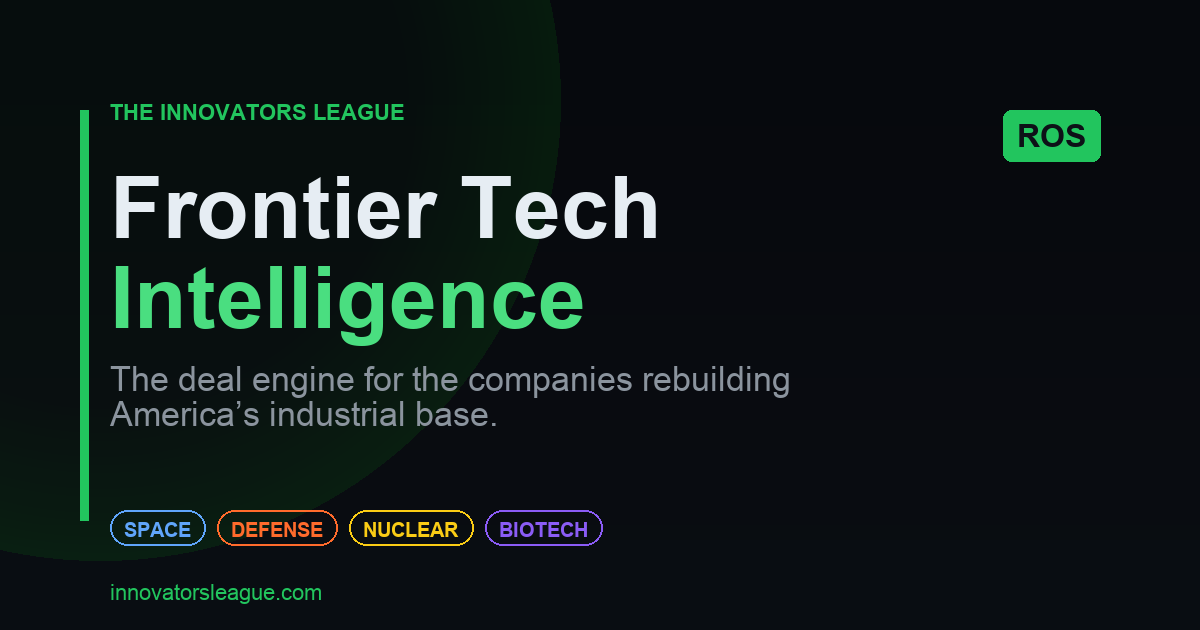
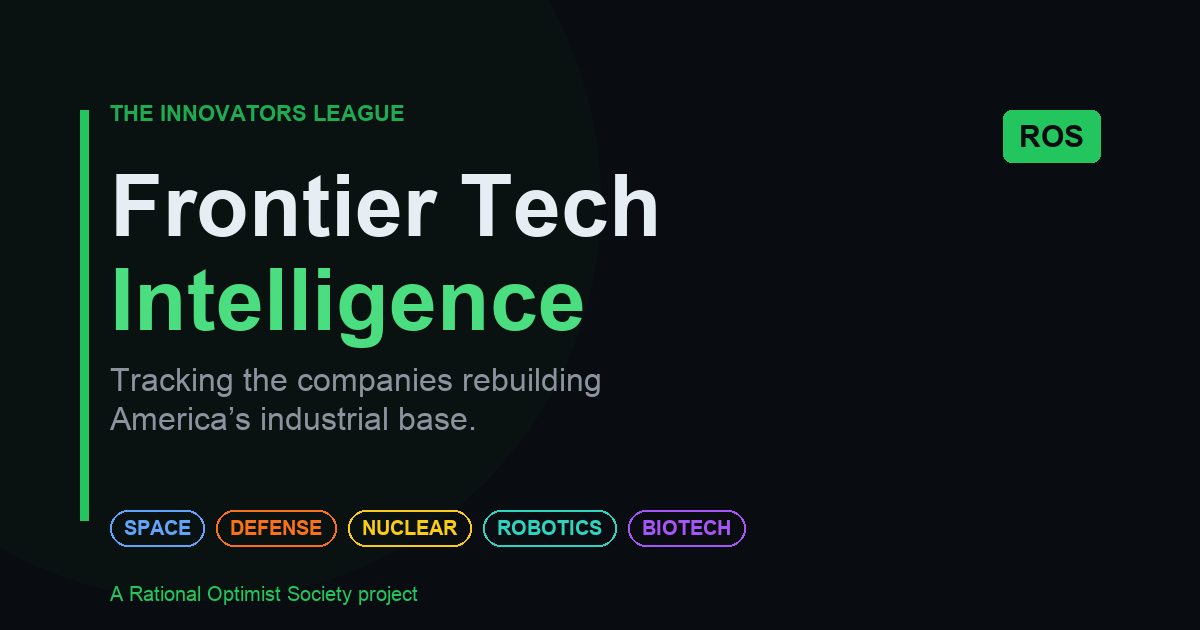
Link preview: new card without the wrong domain; current company count
The share image said "innovatorsleague.com" (an unrelated firm) and "the deal engine".
New card: "Tracking the companies rebuilding America's industrial base", adds Robotics,
signed "A Rational Optimist Society project". Meta descriptions now say 1,400+
companies (the gate counts 1,437); the live data-count spans still update in place.

diff --git a/index.html b/index.html
@@ -6,7 +6,7 @@
     <!-- ─── Open Graph / Twitter / Canonical (auto-managed) ─── -->
     <link rel="canonical" href="https://paleofaire.github.io/innovators-league/">
     <meta property="og:title" content="ROS Innovators League · Frontier-tech intelligence">
-    <meta property="og:description" content="1,200 frontier-tech companies across defense, space, nuclear, robotics and biotech, tracked daily. Search a company, see what changed this week, or go deep on a sector.">
+    <meta property="og:description" content="1,400+ frontier-tech companies across defense, space, nuclear, robotics and biotech, tracked daily. Search a company, see what changed this week, or go deep on a sector.">
     <meta property="og:type" content="website">
     <meta property="og:url" content="https://paleofaire.github.io/innovators-league/">
     <meta property="og:site_name" content="ROS Innovators League">
@@ -15,14 +15,14 @@
     <meta property="og:image:height" content="630">
     <meta name="twitter:card" content="summary_large_image">
     <meta name="twitter:title" content="ROS Innovators League · Frontier-tech intelligence">
-    <meta name="twitter:description" content="1,200 frontier-tech companies across defense, space, nuclear, robotics and biotech, tracked daily. Search a company, see what changed this week, or go deep on a sector.">
+    <meta name="twitter:description" content="1,400+ frontier-tech companies across defense, space, nuclear, robotics and biotech, tracked daily. Search a company, see what changed this week, or go deep on a sector.">
     <meta name="twitter:image" content="https://paleofaire.github.io/innovators-league/og-default.png">
     <meta name="twitter:site" content="@rationalopt">
     <meta name="twitter:creator" content="@stephenmcb">
     <!-- ─── /Open Graph / Twitter / Canonical ─── -->
 
     <title>ROS Innovators League · Frontier-tech intelligence</title>
-    <meta name="description" content="1,200 frontier-tech companies across defense, space, nuclear, robotics and biotech, tracked daily. Search a company, see what changed this week, or go deep on a sector.">
+    <meta name="description" content="1,400+ frontier-tech companies across defense, space, nuclear, robotics and biotech, tracked daily. Search a company, see what changed this week, or go deep on a sector.">
     <link rel="icon" type="image/svg+xml" href="favicon.svg">
     <link rel="preconnect" href="https://fonts.googleapis.com">
     <link rel="preconnect" href="https://fonts.gstatic.com" crossorigin>
@@ -248,7 +248,7 @@
         <div class="hero-content">
             <p class="hero-eyebrow">RATIONAL OPTIMIST SOCIETY</p>
             <h1 class="hero-title">The deal engine for frontier technology.</h1>
-            <p class="hero-subtitle"><span data-count="companies">1,200</span> frontier-tech companies across defense, space, nuclear, robotics and biotech, tracked daily. Search one, see what changed this week, or go deep on a sector.</p>
+            <p class="hero-subtitle"><span data-count="companies">1,400</span> frontier-tech companies across defense, space, nuclear, robotics and biotech, tracked daily. Search one, see what changed this week, or go deep on a sector.</p>
             <form class="hero-search" id="hero-search" role="search" autocomplete="off" onsubmit="return false;">
                 <svg class="hero-search-icon" viewBox="0 0 24 24" fill="none" stroke="currentColor" stroke-width="2" aria-hidden="true"><circle cx="11" cy="11" r="8"/><path d="m21 21-4.35-4.35"/></svg>
                 <input type="text" id="global-search" placeholder="Search companies, sectors, investors&hellip;" aria-label="Search companies, sectors and investors" autocomplete="off" spellcheck="false">

diff --git a/companies.html b/companies.html
@@ -6,7 +6,7 @@
     <!-- ─── Open Graph / Twitter / Canonical (auto-managed) ─── -->
     <link rel="canonical" href="https://paleofaire.github.io/innovators-league/companies.html">
     <meta property="og:title" content="Company Database · ROS Innovators League">
-    <meta property="og:description" content="Search and filter 1,200 frontier-tech companies by sector, stage, location and investor. Grid or market map, CSV export, and the Innovation Map.">
+    <meta property="og:description" content="Search and filter 1,400+ frontier-tech companies by sector, stage, location and investor. Grid or market map, CSV export, and the Innovation Map.">
     <meta property="og:type" content="website">
     <meta property="og:url" content="https://paleofaire.github.io/innovators-league/companies.html">
     <meta property="og:site_name" content="ROS Innovators League">
@@ -15,14 +15,14 @@
     <meta property="og:image:height" content="630">
     <meta name="twitter:card" content="summary_large_image">
     <meta name="twitter:title" content="Company Database · ROS Innovators League">
-    <meta name="twitter:description" content="Search and filter 1,200 frontier-tech companies by sector, stage, location and investor. Grid or market map, CSV export, and the Innovation Map.">
+    <meta name="twitter:description" content="Search and filter 1,400+ frontier-tech companies by sector, stage, location and investor. Grid or market map, CSV export, and the Innovation Map.">
     <meta name="twitter:image" content="https://paleofaire.github.io/innovators-league/og-default.png">
     <meta name="twitter:site" content="@rationalopt">
     <meta name="twitter:creator" content="@stephenmcb">
     <!-- ─── /Open Graph / Twitter / Canonical ─── -->
 
     <title>Company Database · ROS Innovators League</title>
-    <meta name="description" content="Search and filter 1,200 frontier-tech companies by sector, stage, location and investor. Grid or market map, CSV export, and the Innovation Map.">
+    <meta name="description" content="Search and filter 1,400+ frontier-tech companies by sector, stage, location and investor. Grid or market map, CSV export, and the Innovation Map.">
     <link rel="icon" type="image/svg+xml" href="favicon.svg">
     <link rel="preconnect" href="https://fonts.googleapis.com">
     <link rel="preconnect" href="https://fonts.gstatic.com" crossorigin>
@@ -228,7 +228,7 @@
             <div>
                 <p class="section-eyebrow">COMPANIES</p>
                 <h1>Company database</h1>
-                <p><span data-count="companies">1,200</span> frontier-tech companies across <span data-count="countries">40</span> countries, each with a profile: founders, funding, customers, contracts, hiring and filings. Filter below, or start from the <a href="#discovery-hub">map</a>.</p>
+                <p><span data-count="companies">1,400</span> frontier-tech companies across <span data-count="countries">40</span> countries, each with a profile: founders, funding, customers, contracts, hiring and filings. Filter below, or start from the <a href="#discovery-hub">map</a>.</p>
             </div>
             <div class="page-hero-meta">Database as of <span id="companies-updated">&ndash;</span><br>The full database is for ROS patrons. <a href="https://www.rationaloptimistsociety.com" target="_blank" rel="noopener">Join ROS &rarr;</a></div>
         </div>
